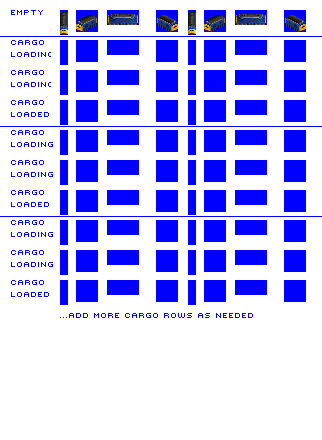
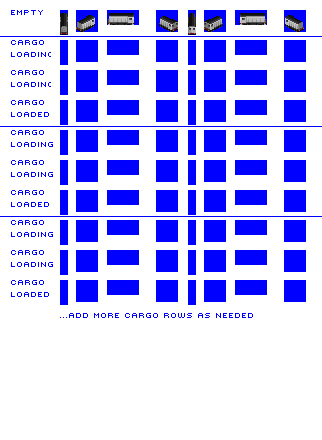
Change: provide sprites for Chopper (DanMacK)

Changed region(s): [[0.4658, 0.0295, 0.8385, 0.0886], [0.1863, 0.0295, 0.4348, 0.0886], [0.8696, 0.0295, 0.9627, 0.0886]]

diff --git a/src/vehicles/chopper.py b/src/vehicles/chopper.py
@@ -11,7 +11,7 @@ vehicle = DieselLoco(id = 'chopper',
             speed = 75,
             power = 1000,
             weight = 70,
-            vehicle_length = 8,
+            vehicle_length = 7,
             buy_menu_width = 32,
             loading_speed = 20,
             intro_date = 1956,
